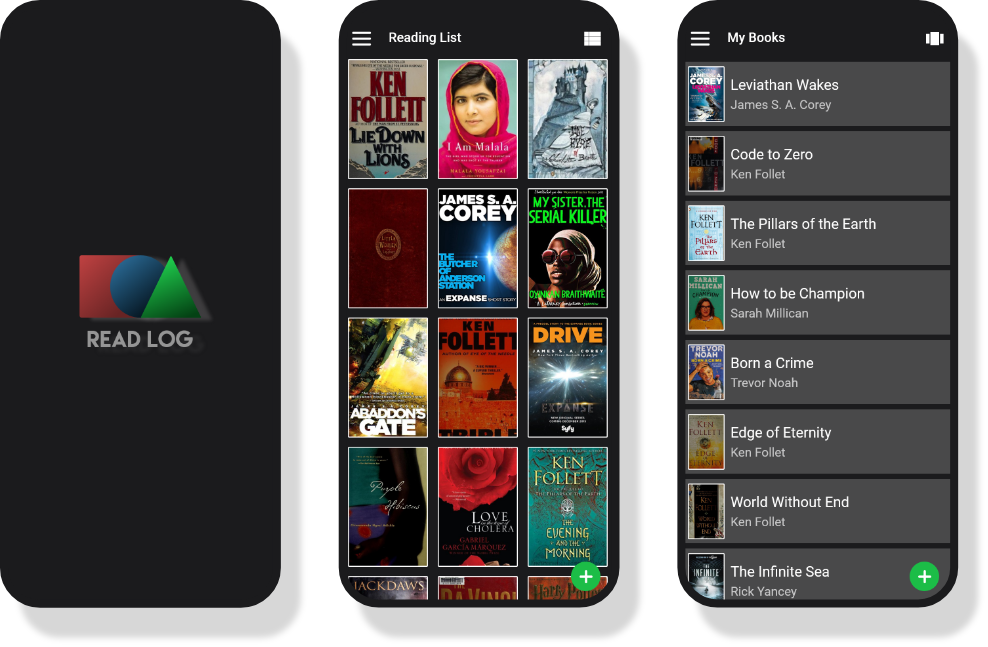
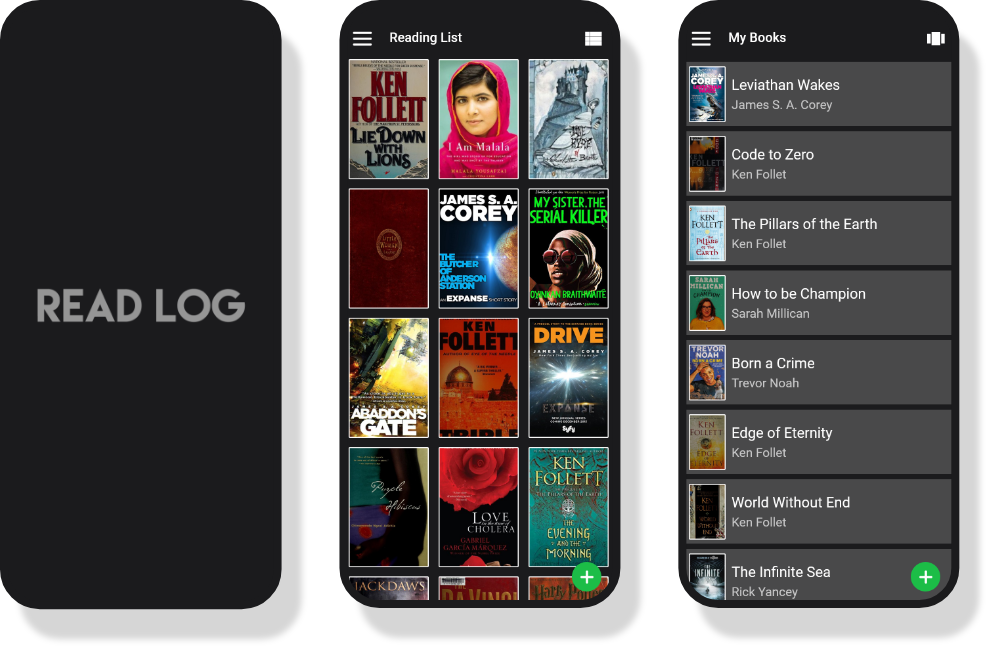
readlog ui changes

diff --git a/src/data/projects.js b/src/data/projects.js
@@ -6,8 +6,8 @@ import yaresaMck from '../resources/yaresa/yarisa-mck.png';
 import readlogMck from '../resources/readlog/readlog-mck.png';
 const projects = [
   {
-    id: 'yaresa',
-    title: 'Yaresa Healthcare UI/UX',
+    id: 'yarisa',
+    title: 'Yarisa Healthcare UI/UX',
     thumbnail: yaresaThumbnail,
     preview:
       'Design for a mobile healthcare application to connect doctors and patients',
@@ -30,7 +30,7 @@ const projects = [
   },
   {
     id: 'readLog',
-    title: 'Book Tracking Mobile App',
+    title: 'Read Log Mobile App',
     thumbnail: readLogThumbnail,
     preview:
       "An IOS and Android app developed using Flutter to track a user's books and reading list.",
@@ -43,7 +43,7 @@ const projects = [
     paragraphs: [
       {
         title: 'Overview',
-        text: 'Readlog is a mobile app(both iOS and Android) that allows a user to keep track of their books.',
+        text: 'Read Log is a mobile app(both iOS and Android) that allows a user to keep track of their books.',
       },
       {
         title: 'Design',
@@ -82,20 +82,20 @@ const projects = [
       },
     ],
   },
-  // {
-  //   id: 'chini',
-  //   title: 'Cover Image Illustration',
-  //   thumbnail: chiniThumbnail,
-  //   preview: "Illustration for musician's cover image.",
-  //   links: { github: '', behance: '', live: '' },
-  //   image: chiniThumbnail,
-  //   paragraphs: [
-  //     {
-  //       title: 'Overview',
-  //       text: 'Simple illustration using Adobe Photoshop',
-  //     },
-  //   ],
-  // },
+  /* {
+    id: 'chini',
+    title: 'Cover Image Illustration',
+    thumbnail: chiniThumbnail,
+    preview: "Illustration for musician's cover image.",
+    links: { github: '', behance: '', live: '' },
+    image: chiniThumbnail,
+    paragraphs: [
+      {
+        title: 'Overview',
+        text: 'Simple illustration using Adobe Photoshop',
+      },
+    ],
+  },*/
 ];
 
 export default projects;
